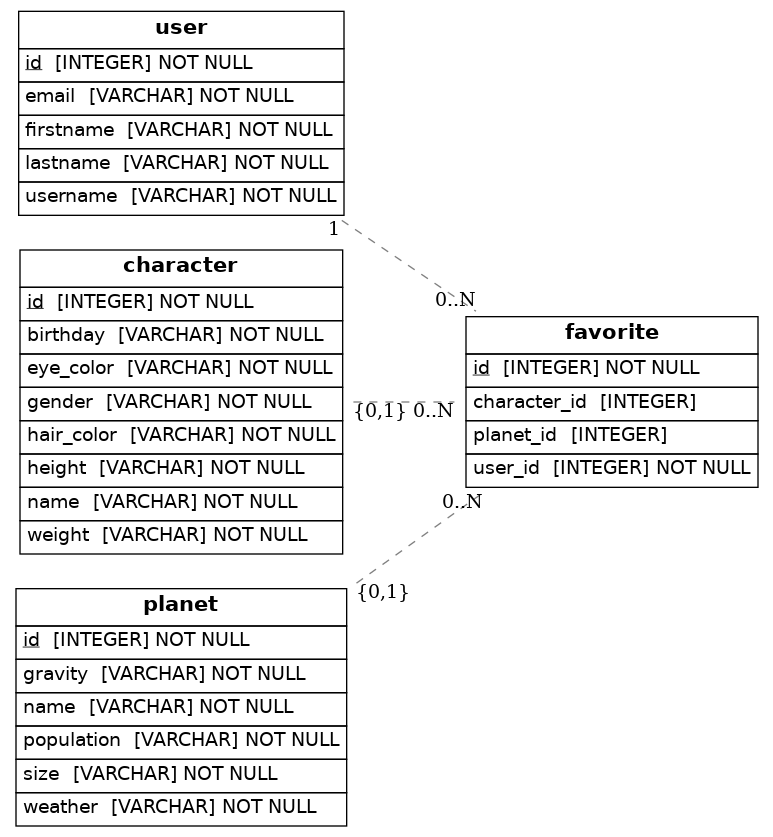
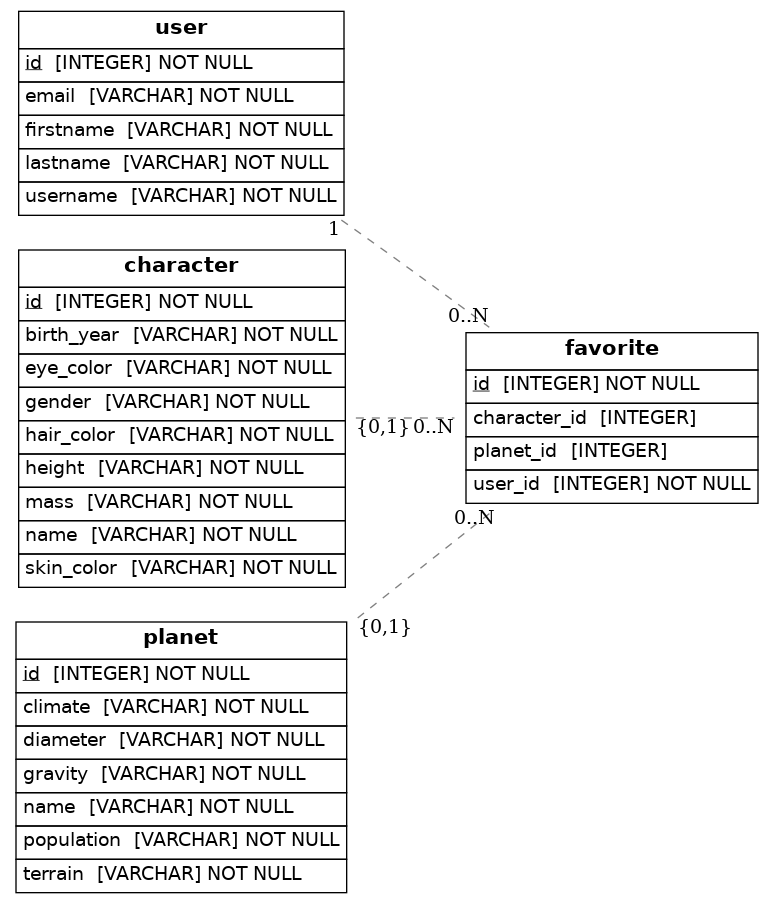
First Commit

Changed region(s): [[0.0, 0.0, 0.9935, 0.6523], [0.0, 0.6834, 0.5278, 0.994], [0.5278, 0.6213, 0.5589, 0.6523]]

diff --git a/src/models.py b/src/models.py
@@ -1,7 +1,7 @@
 import os
 import sys
 from sqlalchemy.orm import declarative_base, Mapped, mapped_column, relationship
-from sqlalchemy import create_engine, String, ForeignKey
+from sqlalchemy import create_engine , ForeignKey, String
 from eralchemy2 import render_er
 
 Base = declarative_base()
@@ -22,11 +22,12 @@ class Character(Base):
     
     id: Mapped[int] = mapped_column(primary_key=True)
     name: Mapped[str] = mapped_column(nullable=False, unique=True)
-    birthday: Mapped[str] = mapped_column()
+    birth_year: Mapped[str] = mapped_column()
     gender: Mapped[str] = mapped_column()
     height: Mapped[str] = mapped_column()
-    weight: Mapped[str] = mapped_column()
+    mass: Mapped[str] = mapped_column()
     hair_color: Mapped[str] = mapped_column()
+    skin_color: Mapped[str] = mapped_column()
     eye_color: Mapped[str] = mapped_column()
     
     favorites = relationship("Favorite", back_populates="character")
@@ -36,10 +37,11 @@ class Planet(Base):
     
     id: Mapped[int] = mapped_column(primary_key=True)
     name: Mapped[str] = mapped_column(nullable=False, unique=True)
-    weather: Mapped[str] = mapped_column()
+    climate: Mapped[str] = mapped_column()
+    terrain: Mapped[str] = mapped_column()
     population: Mapped[str] = mapped_column()
     gravity: Mapped[str] = mapped_column()
-    size: Mapped[str] = mapped_column()
+    diameter: Mapped[str] = mapped_column()
     
     favorites = relationship("Favorite", back_populates="planet")
 
@@ -50,11 +52,10 @@ class Favorite(Base):
     user_id: Mapped[int] = mapped_column(ForeignKey('user.id'), nullable=False)
     character_id: Mapped[int] = mapped_column(ForeignKey('character.id'), nullable=True)
     planet_id: Mapped[int] = mapped_column(ForeignKey('planet.id'), nullable=True)
-    
+
     user = relationship("User", back_populates="favorites")
     character = relationship("Character", back_populates="favorites")
     planet = relationship("Planet", back_populates="favorites")
-
 
     def to_dict(self):
         return {}
